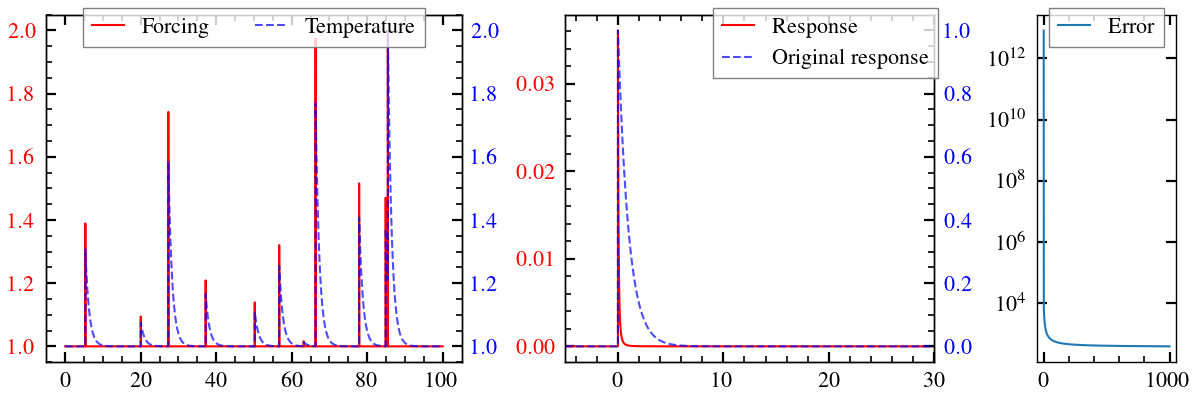
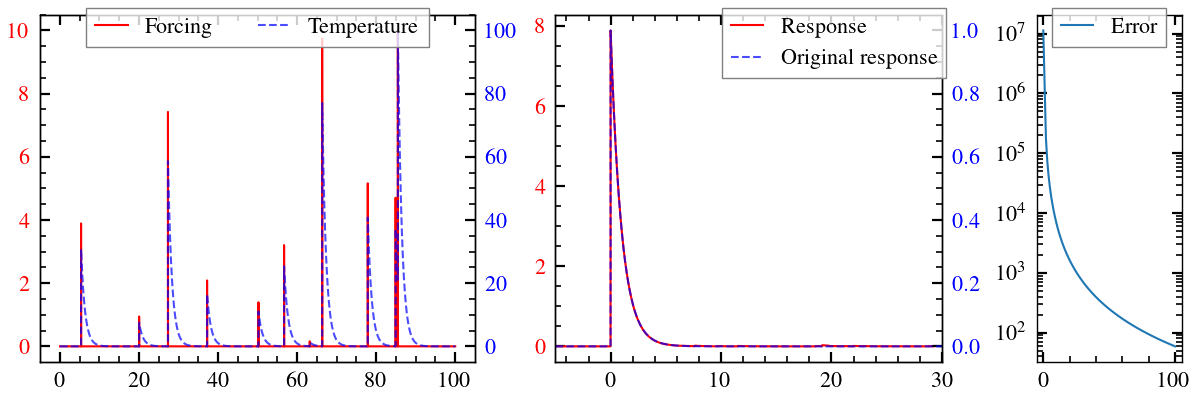
style: clean up text and plots
This uses fewer but more concise examples.

diff --git a/de-verify.md b/de-verify.md
@@ -34,7 +34,9 @@ exp().related_timeseries(seed=seed).deconvolve().combined_view(save="v1", show=s
 ## Flip
 
 If we use the same time series as above, but flip them around (so that they occupy the
-same range in `y`), suddenly deconvolving become really hard!
+same range in `y`), deconvolving does not give any reasonable results. Whether they sit
+above zero or below has no difference, and trying the `scale_factor` available in the
+deconvolution method does not improve things (however this is to be expected).
 
 ```python
 # When the time series are flipped, it already become quite hard!
@@ -54,26 +56,23 @@ exp().related_timeseries(seed=seed).flip().deconvolve(1000, scale_factor=10).com
 Let us add some noise to our clean time series. We expect the deconvolution to handle
 this, and sure enough, if the standard deviation is 0.2 times the standard deviation of
 the time series, we can obtain good estimates of the response function. Note, however,
-that if we do something as (seemingly) harmless as to shift the time series up so that
-the equilibrium is no longer at zero along `y`, all goes to hell. Instead, the minimum
-value (including the added noise) is now at zero.
+that shifting the time series up so that the equilibrium is no longer at zero along `y`,
+all is broken. In this case, the minimum value (including the added noise) is to zero.
+It is even worse than when the noise is 0.6 times the original signal standard
+deviation.
 
 ```python
 # This amount of noise is not a big problem!
 exp().related_timeseries(seed=seed).noise(0.2).deconvolve(100).combined_view(save="v6", show=show)
 # But, it sure looks like one should have the true equilibrium at zero, and not let the
 # "negative" noise be positive!
-exp().related_timeseries(seed=seed).noise(0.2).set2zero().deconvolve(100).combined_view(save="v7", show=show)
-exp().related_timeseries(seed=seed).noise(0.2).deconvolve(100, scale_factor=10).combined_view(save="v8", show=show)
-exp().related_timeseries(seed=seed).noise(0.2).deconvolve(2000, scale_factor=10).combined_view(save="v9", show=show)
-exp().related_timeseries(seed=seed).noise(0.6).deconvolve(100, scale_factor=10).combined_view(save="v10", show=show)
+exp().related_timeseries(seed=seed).noise(0.2).set2zero().deconvolve(2000).combined_view(save="v7", show=show)
+exp().related_timeseries(seed=seed).noise(0.6).deconvolve(100).combined_view(save="v8", show=show)
 ```
 
 ![v6](https://github.com/engeir/hack-md-notes/raw/main/assets/pic/de-verify/v6.png)
 ![v7](https://github.com/engeir/hack-md-notes/raw/main/assets/pic/de-verify/v7.png)
 ![v8](https://github.com/engeir/hack-md-notes/raw/main/assets/pic/de-verify/v8.png)
-![v9](https://github.com/engeir/hack-md-notes/raw/main/assets/pic/de-verify/v9.png)
-![v10](https://github.com/engeir/hack-md-notes/raw/main/assets/pic/de-verify/v10.png)
 
 ## Vertical Adjustment
 
@@ -84,39 +83,37 @@ If we look more closely at what happens if we shift the time series along the
 
 ```python
 # A simple vertical shift also complicates things!
-exp().related_timeseries(seed=seed).vertical_shift((50, 278)).deconvolve(100).combined_view(save="v11", show=show)
-exp().related_timeseries(seed=seed).vertical_shift((1, 1)).deconvolve(100).combined_view(save="v12", show=show)
-exp().related_timeseries(seed=seed).vertical_shift((1, 1)).deconvolve(1000).combined_view(save="v13", show=show)
-exp().related_timeseries(seed=seed).vertical_shift((1, 1)).deconvolve(1000, scale_factor=10).combined_view(save="v14", show=show)
-exp().related_timeseries(seed=seed).vertical_shift((1, 1)).deconvolve(1000, cutoff=10).combined_view(save="v15", show=show)
+exp().related_timeseries(seed=seed).vertical_shift((50, 278)).deconvolve(100).combined_view(save="v9", show=show)
+exp().related_timeseries(seed=seed).vertical_shift((1, 1)).deconvolve(100).combined_view(save="v10", show=show)
+exp().related_timeseries(seed=seed).vertical_shift((1, 1)).deconvolve(1000).combined_view(save="v11", show=show)
+exp().related_timeseries(seed=seed).vertical_shift(0.001).deconvolve(1000).combined_view(save="v12", show=show)
 ```
 
+![v9](https://github.com/engeir/hack-md-notes/raw/main/assets/pic/de-verify/v9.png)
+![v10](https://github.com/engeir/hack-md-notes/raw/main/assets/pic/de-verify/v10.png)
 ![v11](https://github.com/engeir/hack-md-notes/raw/main/assets/pic/de-verify/v11.png)
 ![v12](https://github.com/engeir/hack-md-notes/raw/main/assets/pic/de-verify/v12.png)
-![v13](https://github.com/engeir/hack-md-notes/raw/main/assets/pic/de-verify/v13.png)
-![v14](https://github.com/engeir/hack-md-notes/raw/main/assets/pic/de-verify/v14.png)
-![v15](https://github.com/engeir/hack-md-notes/raw/main/assets/pic/de-verify/v15.png)
 
 ## Scaling
 
 Now, what about scaling the pure and clean time series? Both, or just one of them? That
-is fine, luckily.
+is fine, but again we see how little it takes, when shifting vertically, to mess it up.
+The third plot has a scaling of 100 and 35 on the forcing and temperature, respectively,
+and then the forcing only is shifted up by 1. This has a much poorer estimate of the
+response function than in the figure above it, where the intermittency parameter is much
+larger (1 vs. 10).
 
 ```python
-exp().related_timeseries(seed=seed).scale(10).deconvolve().combined_view(save="v16", show=show)
-exp().related_timeseries(seed=seed).scale((10, 100)).deconvolve().combined_view(save="v17", show=show)
-exp().related_timeseries(seed=seed).scale((100, 35)).deconvolve(1000).combined_view(save="v18", show=show)
-exp().related_timeseries(years=100, gamma=10, wide_forcing=True, seed=seed).scale((100, 35)).deconvolve(1000).combined_view(save="v19", show=show)
-exp().related_timeseries(wide_forcing=True, seed=seed).scale((100, 35)).vertical_shift((1, 0)).deconvolve(1000).combined_view(save="v20", show=show)
-exp().related_timeseries(wide_forcing=True, seed=seed).scale((100, 35)).vertical_shift((1, 1)).deconvolve(1000).combined_view(save="v21", show=show)
+exp().related_timeseries(seed=seed).scale((10, 100)).deconvolve().combined_view(save="v13", show=show)
+exp().related_timeseries(years=100, gamma=10, wide_forcing=True, seed=seed).scale((100, 35)).deconvolve(1000).combined_view(save="v14", show=show)
+exp().related_timeseries(wide_forcing=True, seed=seed).scale((100, 35)).vertical_shift((1, 0)).deconvolve(1000).combined_view(save="v15", show=show)
+exp().related_timeseries(wide_forcing=True, seed=seed).scale((100, 35)).vertical_shift((1, 1)).deconvolve(1000).combined_view(save="v16", show=show)
 ```
 
+![v13](https://github.com/engeir/hack-md-notes/raw/main/assets/pic/de-verify/v13.png)
+![v14](https://github.com/engeir/hack-md-notes/raw/main/assets/pic/de-verify/v14.png)
+![v15](https://github.com/engeir/hack-md-notes/raw/main/assets/pic/de-verify/v15.png)
 ![v16](https://github.com/engeir/hack-md-notes/raw/main/assets/pic/de-verify/v16.png)
-![v17](https://github.com/engeir/hack-md-notes/raw/main/assets/pic/de-verify/v17.png)
-![v18](https://github.com/engeir/hack-md-notes/raw/main/assets/pic/de-verify/v18.png)
-![v19](https://github.com/engeir/hack-md-notes/raw/main/assets/pic/de-verify/v19.png)
-![v20](https://github.com/engeir/hack-md-notes/raw/main/assets/pic/de-verify/v20.png)
-![v21](https://github.com/engeir/hack-md-notes/raw/main/assets/pic/de-verify/v21.png)
 
 ## Syncing Issues
 
@@ -129,16 +126,17 @@ with equal probability. This has a big effect on the estimated response function
 especially in the case where the forcing has a decay.
 
 In the third plot, the forcing has no decay, but the shift between arrival times are set
-to 100 indices (vs 1 above, where one index/step is one day), indicating how much harder
-it is to deconvolve when the forcing has a shape to it rather than just an arrival time
-and amplitude.
+to 100 indices (vs 1 above, where one index/step is one day, with time axis in units of
+years), indicating how much harder it is to deconvolve when the forcing has a shape to
+it rather than just an arrival time and amplitude.
 
 ```python
-exp().peripheral_timeseries(shift=1, seed=seed).deconvolve(1_000).combined_view(save="v22", show=show)
-exp().peripheral_timeseries(shift=1, wide_forcing=True, seed=seed).deconvolve(1_000).combined_view(save="v23", show=show)
-exp().peripheral_timeseries(shift=100, seed=seed).deconvolve(1_000).combined_view(save="v24", show=show)
+# Try with forcing and temperature that have events slightly out of sync.
+exp().peripheral_timeseries(shift=1, seed=seed).deconvolve(1_000).combined_view(save="v17", show=show)
+exp().peripheral_timeseries(shift=1, wide_forcing=True, seed=seed).deconvolve(1_000).combined_view(save="v18", show=show)
+exp().peripheral_timeseries(shift=100, seed=seed).deconvolve(1_000).combined_view(save="v19", show=show)
 ```
 
-![v22](https://github.com/engeir/hack-md-notes/raw/main/assets/pic/de-verify/v22.png)
-![v23](https://github.com/engeir/hack-md-notes/raw/main/assets/pic/de-verify/v23.png)
-![v24](https://github.com/engeir/hack-md-notes/raw/main/assets/pic/de-verify/v24.png)
+![v17](https://github.com/engeir/hack-md-notes/raw/main/assets/pic/de-verify/v17.png)
+![v18](https://github.com/engeir/hack-md-notes/raw/main/assets/pic/de-verify/v18.png)
+![v19](https://github.com/engeir/hack-md-notes/raw/main/assets/pic/de-verify/v19.png)
